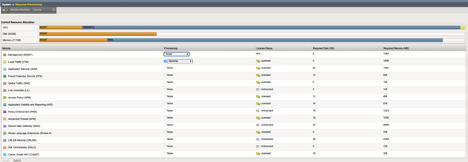
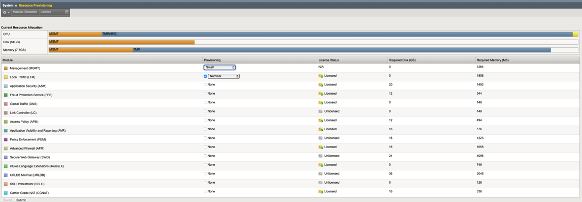
commit

diff --git a/docs/class2/modules/module07.rst b/docs/class2/modules/module07.rst
@@ -15,8 +15,8 @@ a. Go to **System > Resource Provisioning**
 b. You will be able to see what modules are provisoned and the license state on this page per your license on the BIG-IP.
 
 .. image:: /_static/101/image70.png
-   :width: 7.01042in
-   :height: 6.59576in
+   :width: 4.01042in
+   :height: 3.59576in
 
 
 
